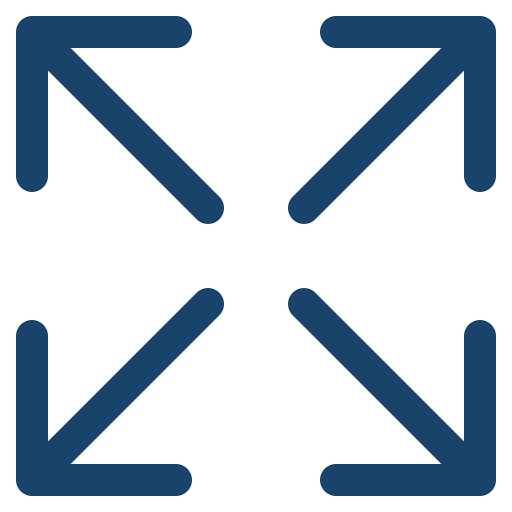
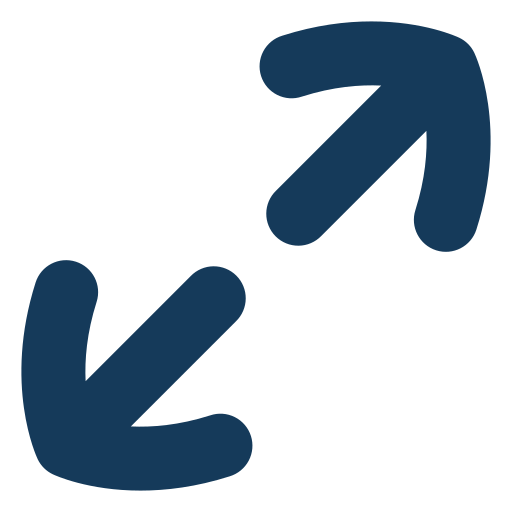
botones de utilidad agregados

diff --git a/src/main/java/controller/TotocalcioController.java b/src/main/java/controller/TotocalcioController.java
@@ -1,13 +1,13 @@
 package controller;
 import javafx.scene.control.*;
-import javafx.scene.control.Alert.AlertType;
+import javafx.application.Platform;
+import javafx.scene.input.MouseEvent;
 import javafx.animation.PauseTransition;
 import javafx.event.ActionEvent;
 import javafx.fxml.FXML;
 import javafx.scene.Node;
 import javafx.scene.image.Image;
 import javafx.scene.image.ImageView;
-import javafx.scene.input.MouseEvent;
 import javafx.scene.layout.AnchorPane;
 import javafx.scene.layout.HBox;
 import javafx.scene.layout.VBox;
@@ -23,6 +23,7 @@ import java.sql.SQLException;
 import java.util.ArrayList;
 import java.util.Arrays;
 import java.util.List;
+import java.util.Optional;
 
 /**
  * Clase clave para el funcionamiento de la aplicación, aquí está toda la lógica de la app.
@@ -611,6 +612,39 @@ private void limpiarBotonesDeLaFila(int fila){
     void restaurarPantallaCompleta(MouseEvent event) {
         Stage stagePrincipal = (Stage) idPanelJuego.getScene().getWindow();
         stagePrincipal.setFullScreen(true);
+    }
+    @FXML
+    void regresarPantallaInicio(MouseEvent event) {
+        // Volvemos a hacer visible la pantalla de carga gigante de Ciao
+        idPantallaCarga.setVisible(true);
+        reiniciarTablero();
+    }
+
+    @FXML
+    void cerrarAplicacion(MouseEvent event) {
+        // Creamos una alerta de tipo CONFIRMACIÓN
+        Alert alertaCerrar = new Alert(Alert.AlertType.CONFIRMATION);
+        alertaCerrar.setTitle("Conferma di chiusura");
+        alertaCerrar.setHeaderText("Stai per chiudere il Totocalcio");
+        alertaCerrar.setContentText("Sei sicuro di voler uscire dall'applicazione?");
+
+        // Protegemos el FullScreen asociando la alerta a la ventana principal
+        Stage stagePrincipal = (Stage) idPanelJuego.getScene().getWindow();
+        alertaCerrar.initOwner(stagePrincipal);
+
+        // Estilizado opcional rápido para que no desentone
+        DialogPane dialogPane = alertaCerrar.getDialogPane();
+        dialogPane.setStyle("-fx-background-color: #f4f4f4;");
+
+        // showAndWait() devuelve un 'Optional' que nos dice qué botón se presionó
+        Optional<ButtonType> resultado = alertaCerrar.showAndWait();
+
+        // Si el usuario presionó OK, entonces cerramos todo
+        if (resultado.isPresent() && resultado.get() == ButtonType.OK) {
+            javafx.application.Platform.exit();
+            System.exit(0);
+        }
+        // Si presionó Cancelar o cerró la ventana, no hace nada y sigue el juego
     }
 }
 